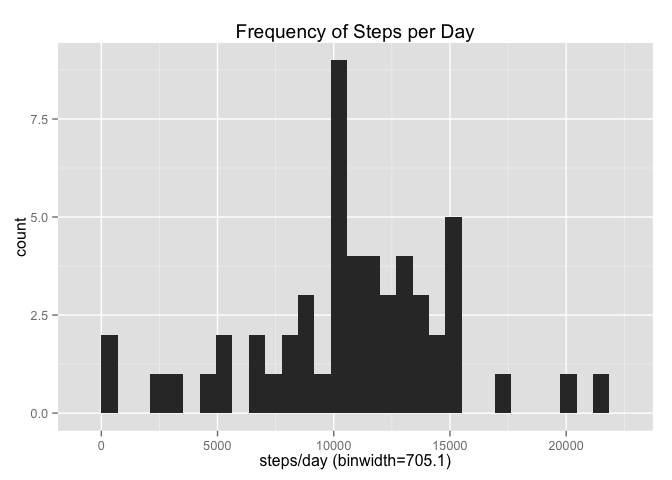
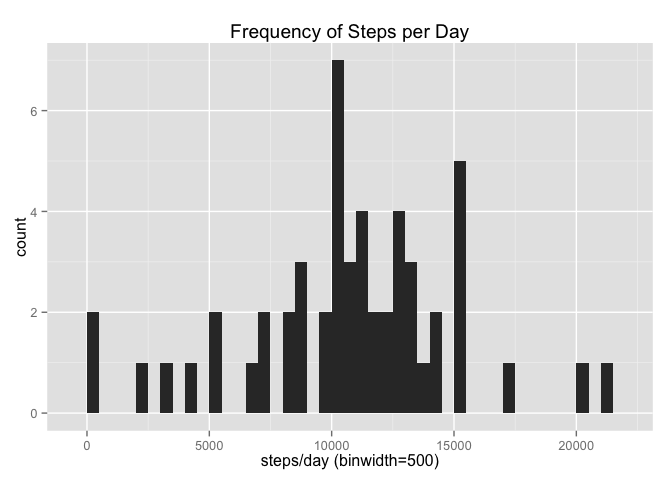
Mean and median of steps/day

diff --git a/PA1_template.html b/PA1_template.html
@@ -70,15 +70,22 @@ activity &lt;- read.csv(&quot;activity.csv&quot;)</code></pre>
 <div id="what-is-mean-total-number-of-steps-taken-per-day" class="section level2">
 <h2>What is mean total number of steps taken per day?</h2>
 <ol style="list-style-type: decimal">
-<li>This histogram plots the frequency of total number of steps taken each day, which is calculated and stored in <code>stepsByDate</code>. Per the instructions, missing values in <code>activity</code> are ignored. A binwidth of the range/30 is used and saved in <code>bwidth</code>.</li>
+<li>This histogram plots the frequency of total number of steps taken each day, which is calculated and stored in <code>stepsByDate</code>. Per the instructions, missing values in <code>activity</code> are <em>ignored</em>. Rather than using the default binwidth of <code>diff(range(stepsByDate$totsteps))/30</code> (705.1), a more natural <code>bwidth</code> of 500 is used.</li>
 </ol>
 <pre class="r"><code>stepsByDate &lt;- na.omit(activity) %&gt;% group_by(date) %&gt;% summarise(totsteps=sum(steps))
-bwidth &lt;- diff(range(stepsByDate$totsteps)) / 30
+#bwidth &lt;- diff(range(stepsByDate$totsteps)) / 30
+bwidth &lt;- 500
 ggplot(data=stepsByDate, aes(x=totsteps)) +
     geom_histogram(binwidth=bwidth) +
     ggtitle(&quot;Frequency of Steps per Day&quot;) +
     xlab(paste0(&quot;steps/day (binwidth=&quot;, bwidth, &quot;)&quot;))</code></pre>
[2 lines of base64/hex data omitted]
+<ol start="2" style="list-style-type: decimal">
+<li>The mean and median total number of steps taken per day are calculated with this code:</li>
+</ol>
+<pre class="r"><code>stepsMean &lt;- mean(stepsByDate$totsteps)
+stepsMedian &lt;- median(stepsByDate$totsteps)</code></pre>
+<p>The mean is <em>1.076618910^{4}</em> and the median is <em>10765</em>.</p>
 </div>
 <div id="what-is-the-average-daily-activity-pattern" class="section level2">
 <h2>What is the average daily activity pattern?</h2>

diff --git a/PA1_template.md b/PA1_template.md
@@ -9,14 +9,17 @@ library(dplyr, warn.conflicts=FALSE)
 library(ggplot2)
 activity <- read.csv("activity.csv")
 ```
+
 2. No data transformations are needed.
 
+
 ## What is mean total number of steps taken per day?
-1. This histogram plots the frequency of total number of steps taken each day, which is calculated and stored in `stepsByDate`.  Per the instructions, missing values in `activity` are ignored.  A binwidth of the range/30 is used and saved in `bwidth`.
+1. This histogram plots the frequency of total number of steps taken each day, which is calculated and stored in `stepsByDate`.  Per the instructions, missing values in `activity` are *ignored*.  Rather than using the default binwidth of `diff(range(stepsByDate$totsteps))/30` (705.1), a more natural `bwidth` of 500 is used.
 
 ```r
 stepsByDate <- na.omit(activity) %>% group_by(date) %>% summarise(totsteps=sum(steps))
-bwidth <- diff(range(stepsByDate$totsteps)) / 30
+#bwidth <- diff(range(stepsByDate$totsteps)) / 30
+bwidth <- 500
 ggplot(data=stepsByDate, aes(x=totsteps)) +
     geom_histogram(binwidth=bwidth) +
     ggtitle("Frequency of Steps per Day") +
@@ -24,6 +27,15 @@ ggplot(data=stepsByDate, aes(x=totsteps)) +
 ```
 
 ![](PA1_template_files/figure-html/unnamed-chunk-2-1.png) 
+
+2. The mean and median total number of steps taken per day are calculated with this code:
+
+```r
+stepsMean <- mean(stepsByDate$totsteps)
+stepsMedian <- median(stepsByDate$totsteps)
+```
+The mean is *1.0766189\times 10^{4}* and the median is *10765*.
+
 
 ## What is the average daily activity pattern?
 
